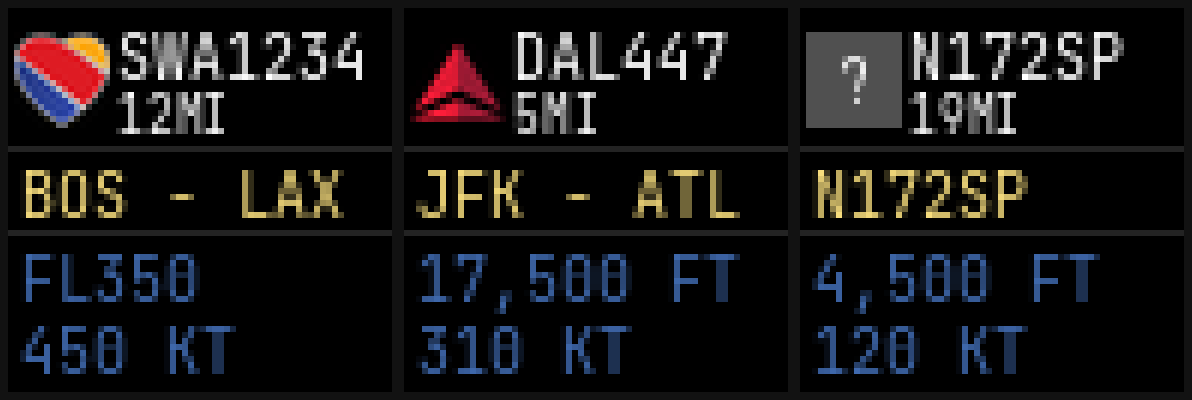
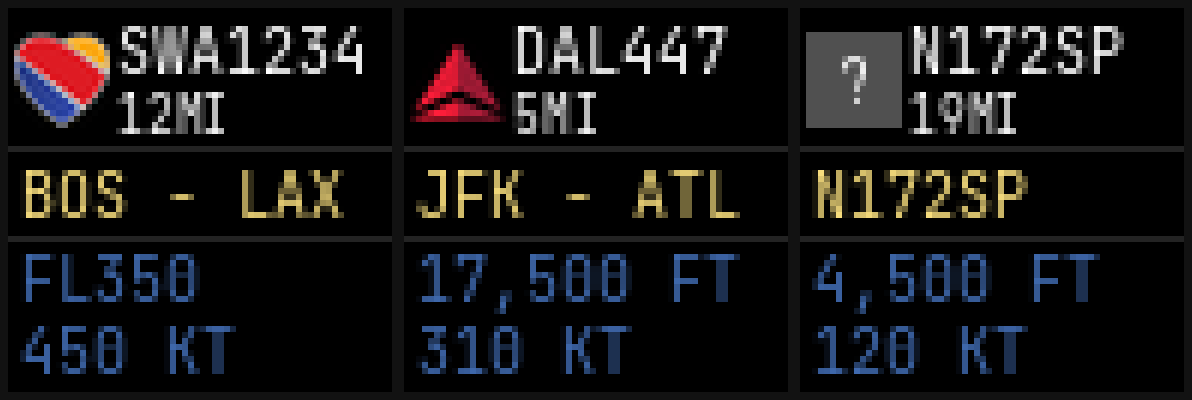
adjustments

diff --git a/renderer.py b/renderer.py
@@ -24,7 +24,10 @@ _FONT_PATH = os.path.join(
 @functools.lru_cache(maxsize=8)
 def _font(size: int) -> ImageFont.ImageFont:
     if os.path.exists(_FONT_PATH):
-        return ImageFont.truetype(_FONT_PATH, size)
+        try:
+            return ImageFont.truetype(_FONT_PATH, size)
+        except OSError as e:
+            log.warning("Failed to load font %s: %s", _FONT_PATH, e)
     try:
         return ImageFont.load_default(size=size)
     except TypeError:
@@ -93,7 +96,7 @@ def compose(
     avail = W - 19
     while flight and d.textbbox((0, 0), flight, font=f10)[2] > avail:
         flight = flight[:-1]
-    d.text((18, 1), flight, fill=c.color_flight, font=f10)
+    d.text((18, 0), flight, fill=c.color_flight, font=f10)
 
     if aircraft.distance_km:
         d.text(
@@ -115,7 +118,7 @@ def compose(
         route = aircraft.registration or aircraft.hex.upper()
     d.text((2, 24), route.upper(), fill=c.color_route, font=f10)
 
-    _sep(d, 37)
+    _sep(d, 38)
 
     alt_str = _alt_str(aircraft.altitude_ft, c.fl_transition_ft)
     spd_str = f"{aircraft.speed_kts} KT" if aircraft.speed_kts is not None else "-- KT"
